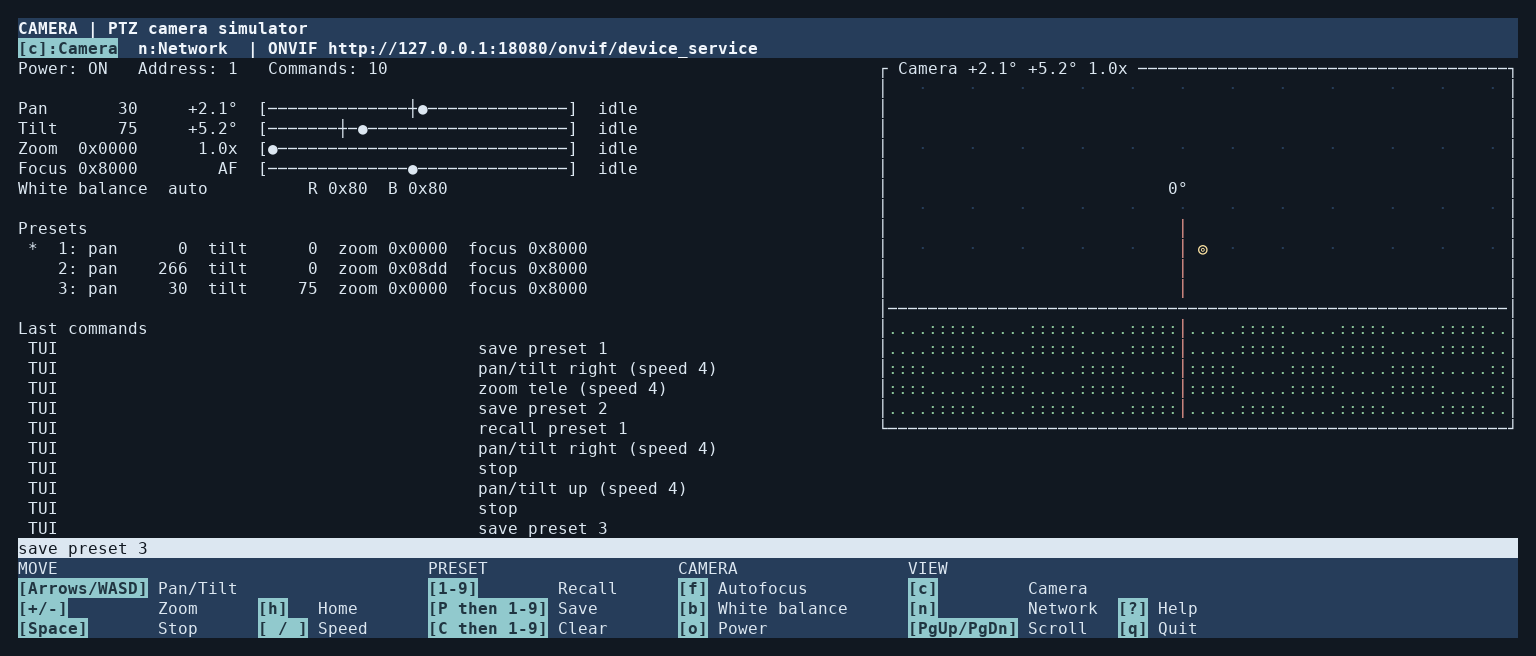
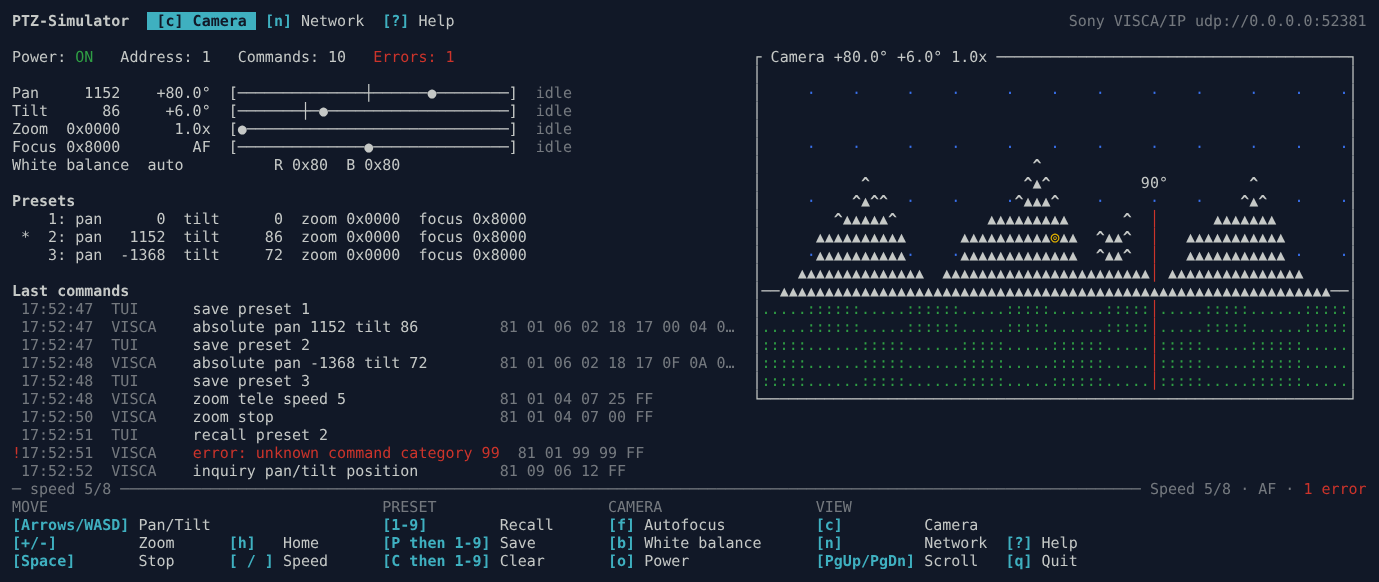
docs(tui): show the new terminal dashboard in screenshots
Claude-Session: https://claude.ai/code/session_018328o9KZxeUyDbpSF51odX

diff --git a/README.md b/README.md
@@ -189,7 +189,15 @@ The active tab is highlighted (reverse video without colour).
 #### Camera Control View (Press `c`)
 The main camera control view shows real-time PTZ status and commands. On terminals
 at least 112 columns wide the camera picture sits to the right of the dashboard and
-grows with the terminal; the command log takes the rows that are left:
+grows with the terminal; the command log takes the rows that are left.
+
+![TUI camera view: header tabs, camera status, presets, command log with a red protocol error, the camera picture of the Alps, the status rule and the key legend](docs/public/images/tui-dashboard.png)
+
+On an 80-column terminal the picture is left out and the legend uses two lines:
+
+![TUI camera view in an 80-column terminal with the two-line key legend](docs/public/images/tui-80-columns.png)
+
+The same view as text:
 ```
 PTZ-Simulator   [c] Camera  [n] Network  [?] Help         ONVIF http://0.0.0.0:8103/…
 

diff --git a/docs/index.md b/docs/index.md
@@ -38,7 +38,8 @@ SPDX-License-Identifier: MIT
 [![PTZ simulator terminal dashboard showing camera controls, presets, recent commands and a text-mode viewfinder](/images/tui-dashboard.png)](/images/tui-dashboard.png)
 
 <figcaption>
-The terminal dashboard combines camera status, presets and a text-mode viewfinder.
+The terminal dashboard combines camera status, presets, a command log that marks
+protocol errors, and a text-mode viewfinder.
 Open the image to zoom in.
 </figcaption>
 </figure>
